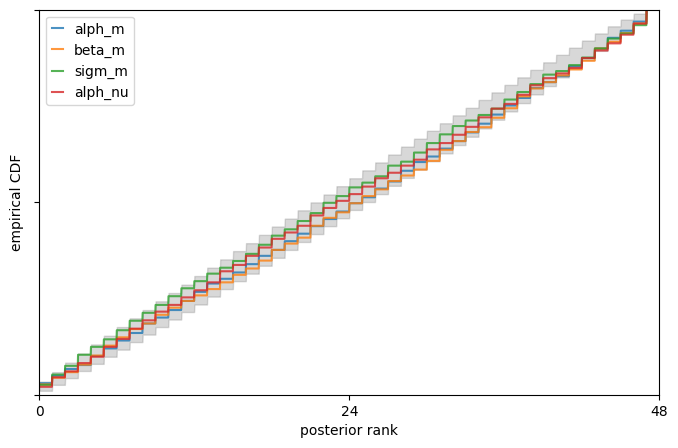
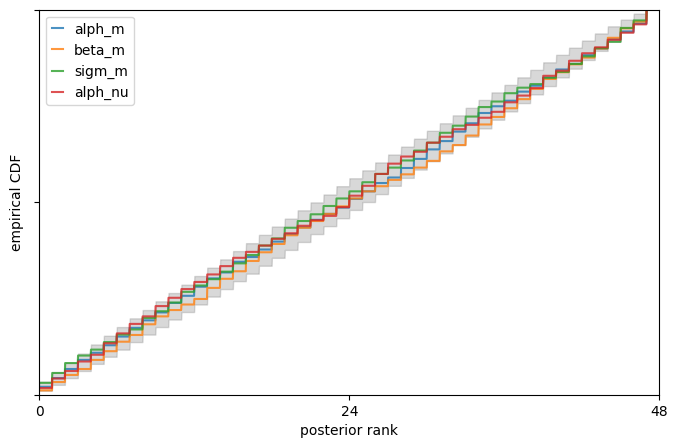
Increase num_posterior_samples
- All parameters now pass tests
- Is this reasonable? Can this be set 'too' high?

Changed region(s): [[0.0619, 0.1875, 0.8053, 0.875], [0.8053, 0.0312, 0.9602, 0.1875]]

diff --git a/model_fitting/calibration.py b/model_fitting/calibration.py
@@ -28,7 +28,7 @@ thetas, xs = simulate_for_sbi(simulator, proposal=prior, num_simulations=num_sim
 thetas = thetas[~torch.any(xs.isnan(),dim=1)]
 xs = xs[~torch.any(xs.isnan(),dim=1)]
 
-num_posterior_samples = 1_000
+num_posterior_samples = 20_000
 ranks, dap_samples = run_sbc(
     thetas, xs, posterior, num_posterior_samples=num_posterior_samples,
     num_workers=8, reduce_fns='marginals'#posterior.log_prob,
